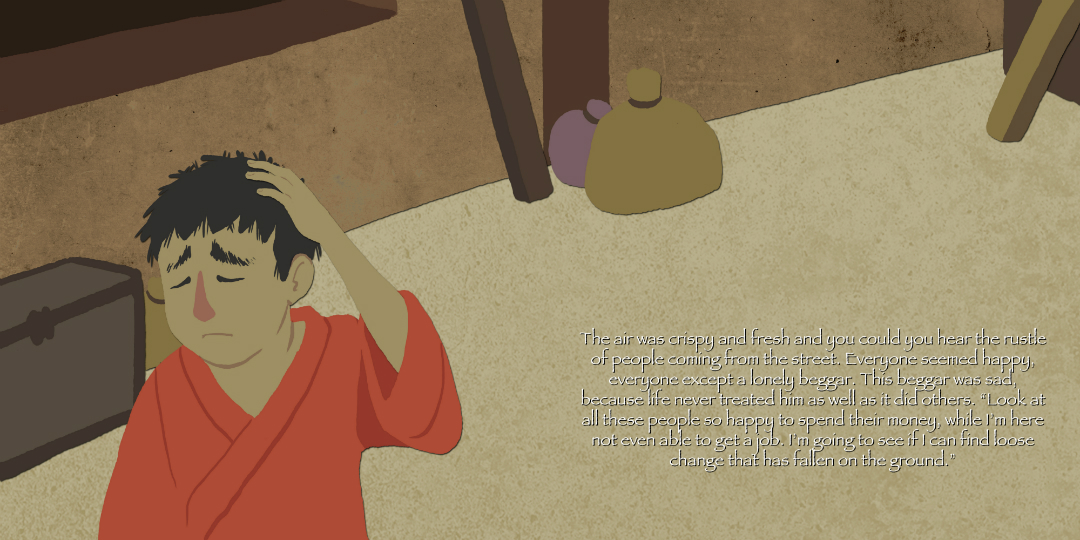
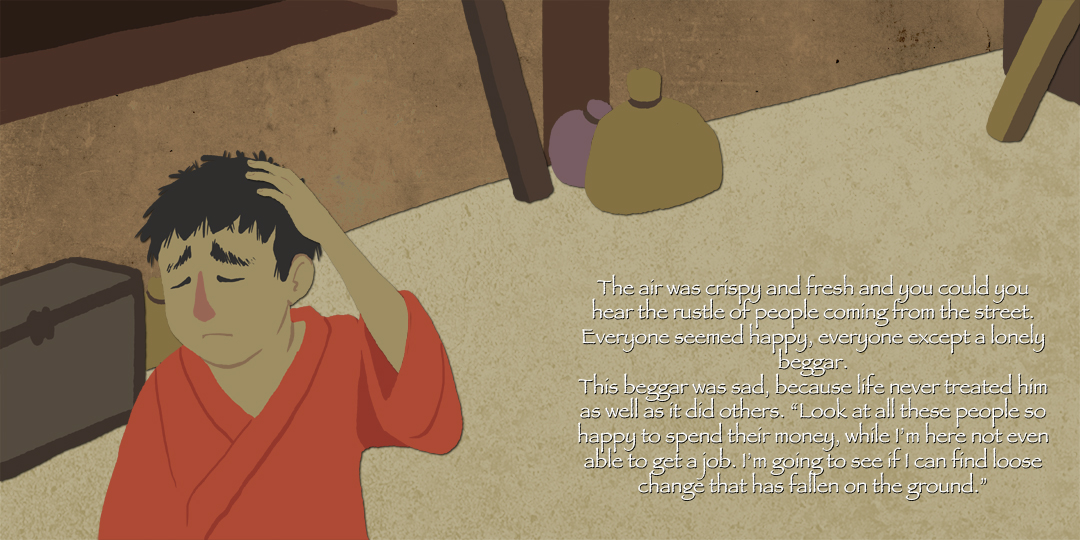
Added WebComic Images for phones and testing how good they look

Changed region(s): [[0.5194, 0.5037, 0.9778, 0.9185]]

diff --git a/css/webcomic.css b/css/webcomic.css
@@ -10,24 +10,121 @@
     padding: 1%;
 }
 
-#oddpage {
-    margin-left: auto;
-    margin-right: auto;
-    width: 45%;
-    padding: 1%;
-}
-
 #bottomright {
+    cursor: pointer;
     position: absolute;
-    bottom: 1%;
-    right: 1%;
-    font-size: 18px;
+    bottom: 40%;
+    right: 0%;
+    padding: 1%;
+    color: white;
+    font-weight: bold;
+    font-size: 5em;
+    -webkit-transition: 0.6s ease;
+    -o-transition: 0.6s ease;
+    transition: 0.6s ease;
+    border-radius: 0 3px 3px 0;
+    -moz-user-select: none;
+    -ms-user-select: none;
+    user-select: none;
+    -webkit-user-select: none;
 }
 
 #bottomleft {
+    cursor: pointer;
     position: absolute;
-    bottom: 1%;
-    left: 1%;
-    font-size: 18px;
+    bottom: 40%;
+    left: 0%;
+    padding: 1%;
+    color: white;
+    font-weight: bold;
+    font-size: 5em;
+    -webkit-transition: 0.6s ease;
+    -o-transition: 0.6s ease;
+    transition: 0.6s ease;
+    border-radius: 0 3px 3px 0;
+    -moz-user-select: none;
+    -ms-user-select: none;
+    user-select: none;
+    -webkit-user-select: none;
     visibility: hidden;
+}
+
+#bottomleft:hover,
+#bottomright:hover {
+    background-color: #d3e3e3;
+}
+
+#phonepage {
+    display: none;
+}
+
+#phoneleft {
+    display: none;
+}
+
+#phoneright {
+    display: none;
+}
+
+@media screen and (max-width: 480px) {
+    #phonepage {
+        display: block;
+        margin-left: auto;
+        margin-right: auto;
+        width: 75%;
+        padding: 1%;
+    }
+
+    #phoneleft {
+        display: block;
+        cursor: pointer;
+        position: absolute;
+        bottom: 40%;
+        left: 0%;
+        padding: 1%;
+        color: white;
+        font-weight: bold;
+        font-size: 5em;
+        -webkit-transition: 0.6s ease;
+        -o-transition: 0.6s ease;
+        transition: 0.6s ease;
+        border-radius: 0 3px 3px 0;
+        -moz-user-select: none;
+        -ms-user-select: none;
+        user-select: none;
+        -webkit-user-select: none;
+        visibility: hidden;
+    }
+
+    #phoneright {
+        display: block;
+        cursor: pointer;
+        position: absolute;
+        bottom: 40%;
+        right: 0%;
+        padding: 1%;
+        color: white;
+        font-weight: bold;
+        font-size: 5em;
+        -webkit-transition: 0.6s ease;
+        -o-transition: 0.6s ease;
+        transition: 0.6s ease;
+        border-radius: 0 3px 3px 0;
+        -moz-user-select: none;
+        -ms-user-select: none;
+        user-select: none;
+        -webkit-user-select: none;
+    }
+
+    #centerpage {
+        display: none;
+    }
+
+    #bottomright {
+        display: none;
+    }
+
+    #bottomleft {
+        display: none;
+    }
 }

diff --git a/scripts/webcomic.js b/scripts/webcomic.js
@@ -51,3 +51,35 @@ function PrevPage() {
 
     document.getElementById("centerpage").src = page;
 }
+
+function PhoneNextPage() {
+    PageCount++;
+    var page = "../phone_img/Page" + PageCount + ".jpg";
+    document.getElementById("phoneleft").style.visibility = "visible";
+
+    if (PageCount == 0) {
+        page = "../phone_img/Cover.jpg";
+        document.getElementById("phoneleft").style.visibility = "hidden";
+    }
+    else if (PageCount == 29) {
+        document.getElementById("phoneright").style.visibility = "hidden";
+    }
+
+    document.getElementById("phonepage").src = page;
+}
+
+function PhonePrevPage() {
+    PageCount--;
+    var page = "../phone_img/Page" + PageCount + ".jpg";
+    document.getElementById("phoneright").style.visibility = "visible";
+
+    if (PageCount == 0) {
+        page = "../phone_img/Cover.jpg";
+        document.getElementById("phoneleft").style.visibility = "hidden";
+    }
+    else if (PageCount == 29) {
+        document.getElementById("phoneright").style.visibility = "hidden";
+    }
+
+    document.getElementById("phonepage").src = page;
+}

diff --git a/webcomic/index.html b/webcomic/index.html
@@ -27,9 +27,12 @@
 
     <main role="main" id="page-main">
         <div id="webcomic-main">
-            <button id="bottomleft" onclick='PrevPage()'>Back</button>
+            <a id="bottomleft" onclick='PrevPage()'>&#10094;</a>
             <img id="centerpage" src="../rat_img/Cover.jpg">
-            <button id="bottomright" onclick='NextPage()'>Next</button>
+            <a id="bottomright" onclick='NextPage()'>&#10095;</a>
+            <a id="phoneleft" onclick='PhonePrevPage()'>&#10094;</a>
+            <img id="phonepage" src="../phone_img/Cover.jpg">
+            <a id="phoneright" onclick='PhoneNextPage()'>&#10095;</a>
         </div>
     </main>
 
